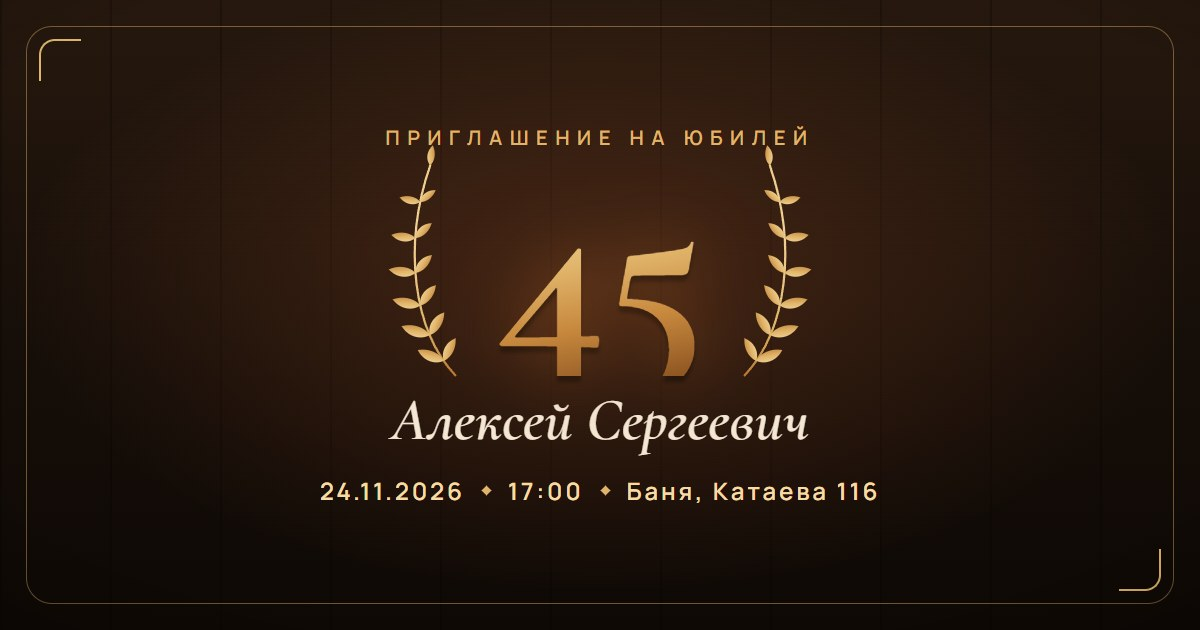
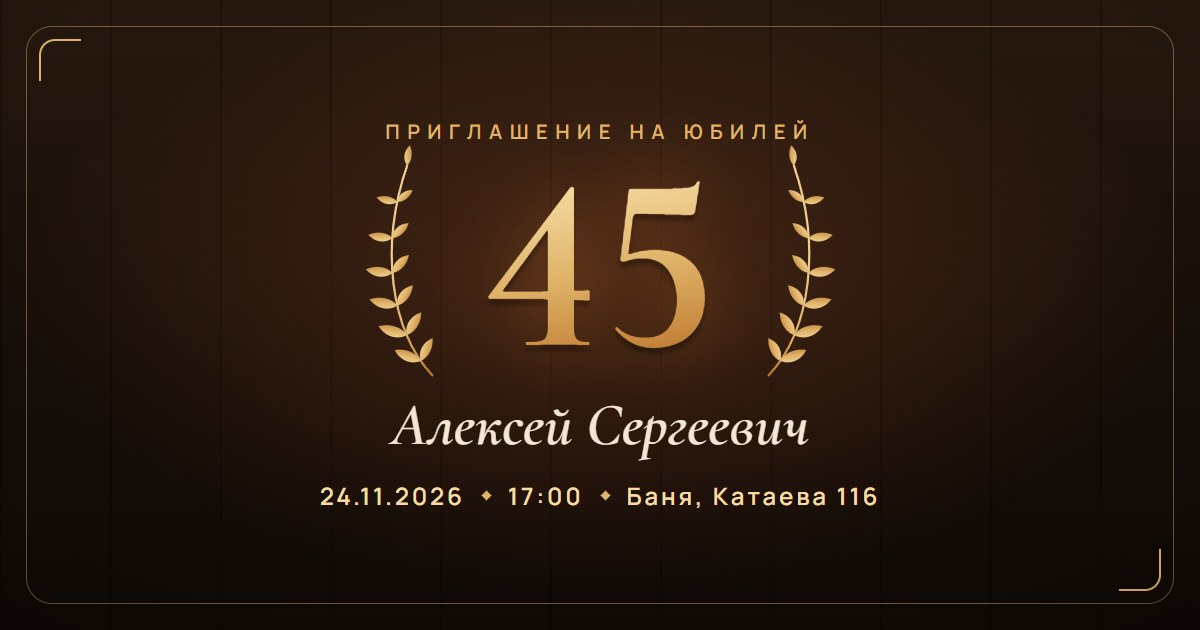
Исправить обрезанные цифры «45»
У Cormorant по умолчанию «старинные» цифры, которые уходят ниже строки,
а золотая заливка (background-clip: text) обрезала их нижнюю часть.
Включены прописные цифры (lnum) и добавлен запас внутри блока.

diff --git a/style.css b/style.css
@@ -44,6 +44,7 @@ body {
   font-family: var(--sans);
   font-size: 16px;
   line-height: 1.6;
+  font-variant-numeric: lining-nums;
   overflow-x: hidden;
 }
 
@@ -170,7 +171,13 @@ main {
   font-family: var(--serif);
   font-weight: 700;
   font-size: clamp(8.5rem, 40vw, 14.5rem);
-  line-height: 0.86;
+  /* ровные (прописные) цифры вместо «старинных», которые уходят ниже строки */
+  font-variant-numeric: lining-nums;
+  font-feature-settings: "lnum" 1;
+  /* запас внутри блока, чтобы золотая заливка не обрезала края цифр */
+  line-height: 1;
+  padding: 0.02em 0.08em 0.1em;
+  margin: -0.04em 0 -0.12em;
   letter-spacing: -0.02em;
   background: linear-gradient(170deg, #fff1cf 0%, var(--gold-light) 18%, var(--gold) 48%, var(--gold-2) 72%, #8a5220 100%);
   -webkit-background-clip: text;
@@ -424,7 +431,8 @@ h2 {
   font-weight: 600;
   font-size: clamp(2.4rem, 11vw, 3.4rem);
   line-height: 1;
-  font-variant-numeric: tabular-nums;
+  font-variant-numeric: lining-nums tabular-nums;
+  font-feature-settings: "lnum" 1, "tnum" 1;
   color: var(--gold-light);
 }
 .cd small {
